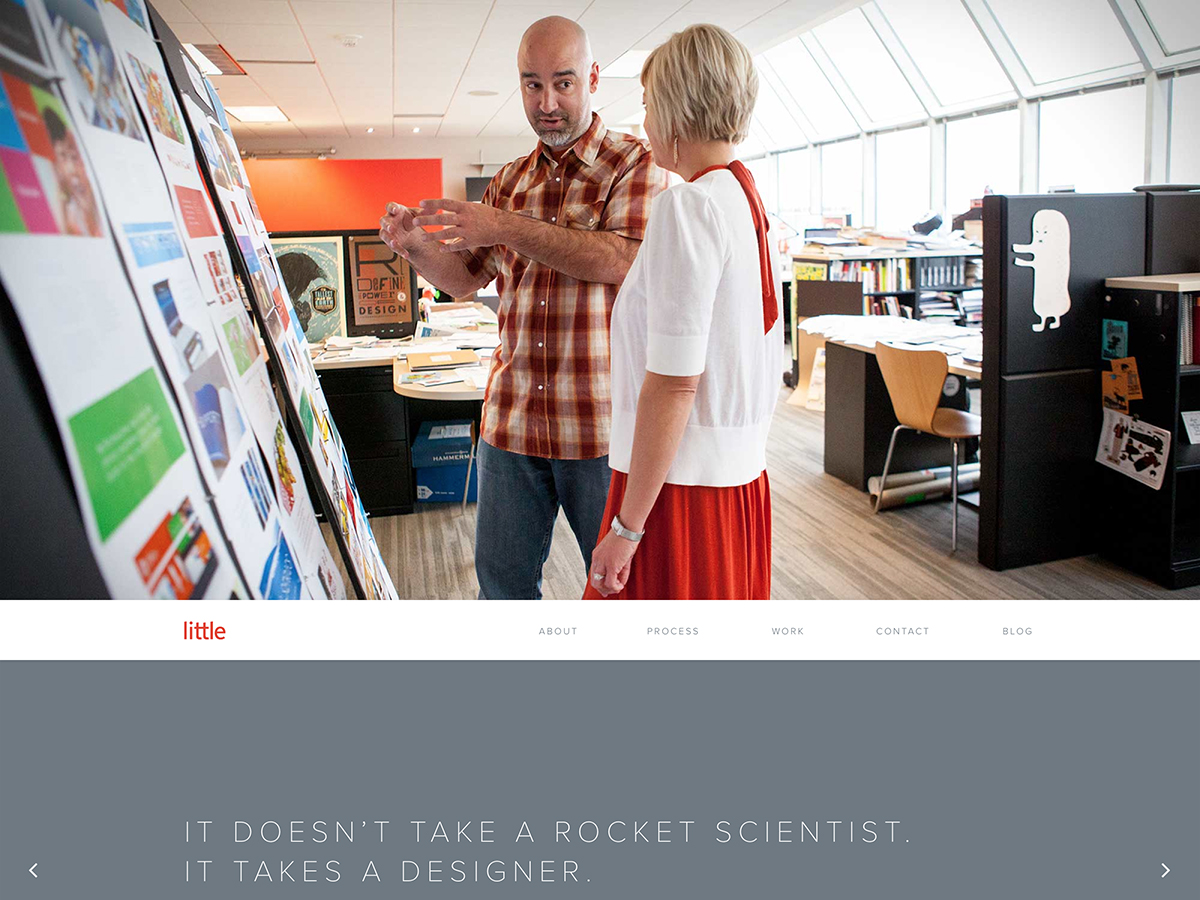
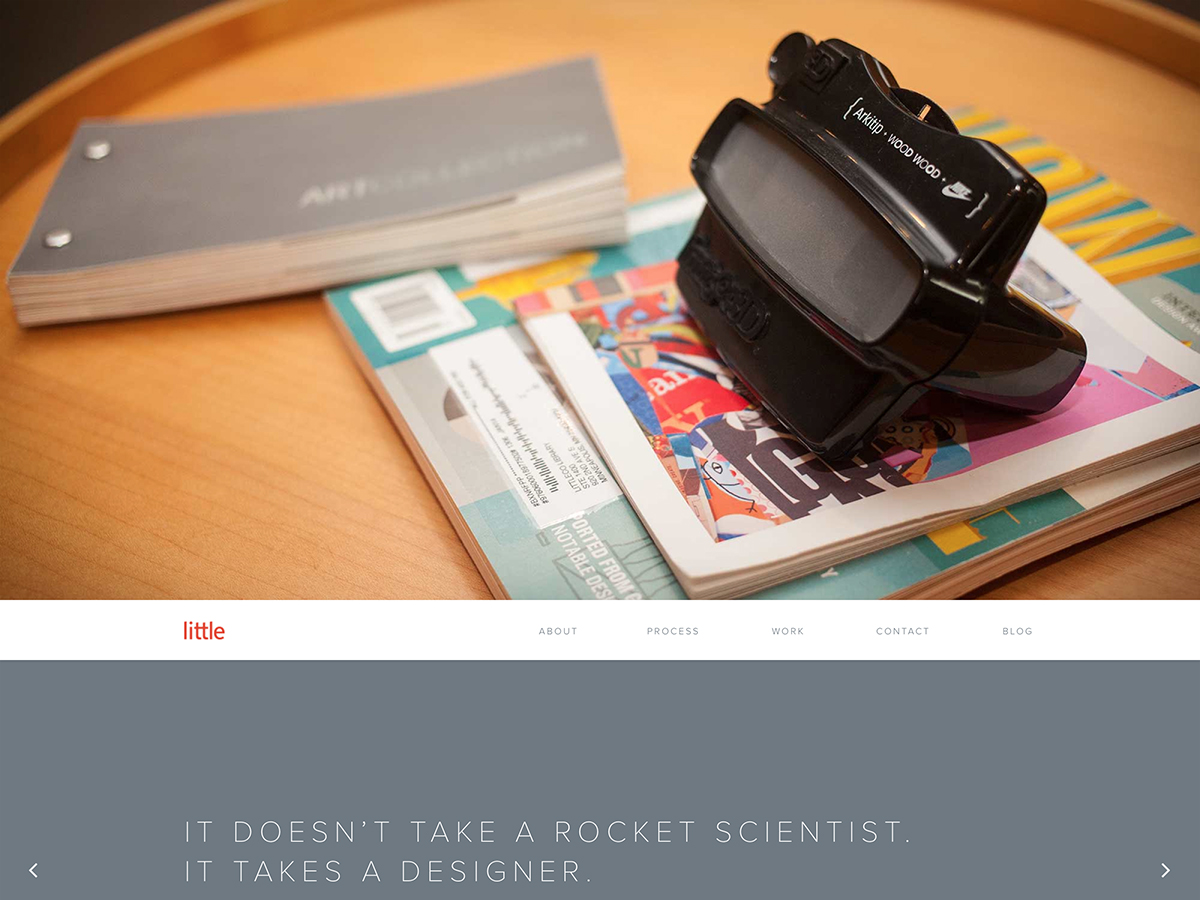
little and newsweek

diff --git a/_posts/2014-02-12-newsweek.md b/_posts/2014-02-12-newsweek.md
@@ -1,0 +1,7 @@
+---
+layout: post
+title: "Newsweek"
+source: http://www.newsweek.com
+---
+
+<img src="/screenshots/newsweek.jpg">

diff --git a/_posts/2014-02-12-little.md b/_posts/2014-02-12-little.md
@@ -1,0 +1,7 @@
+---
+layout: post
+title: "Little"
+source: http://www.littleco.com
+---
+
+<img src="/screenshots/little.jpg">
